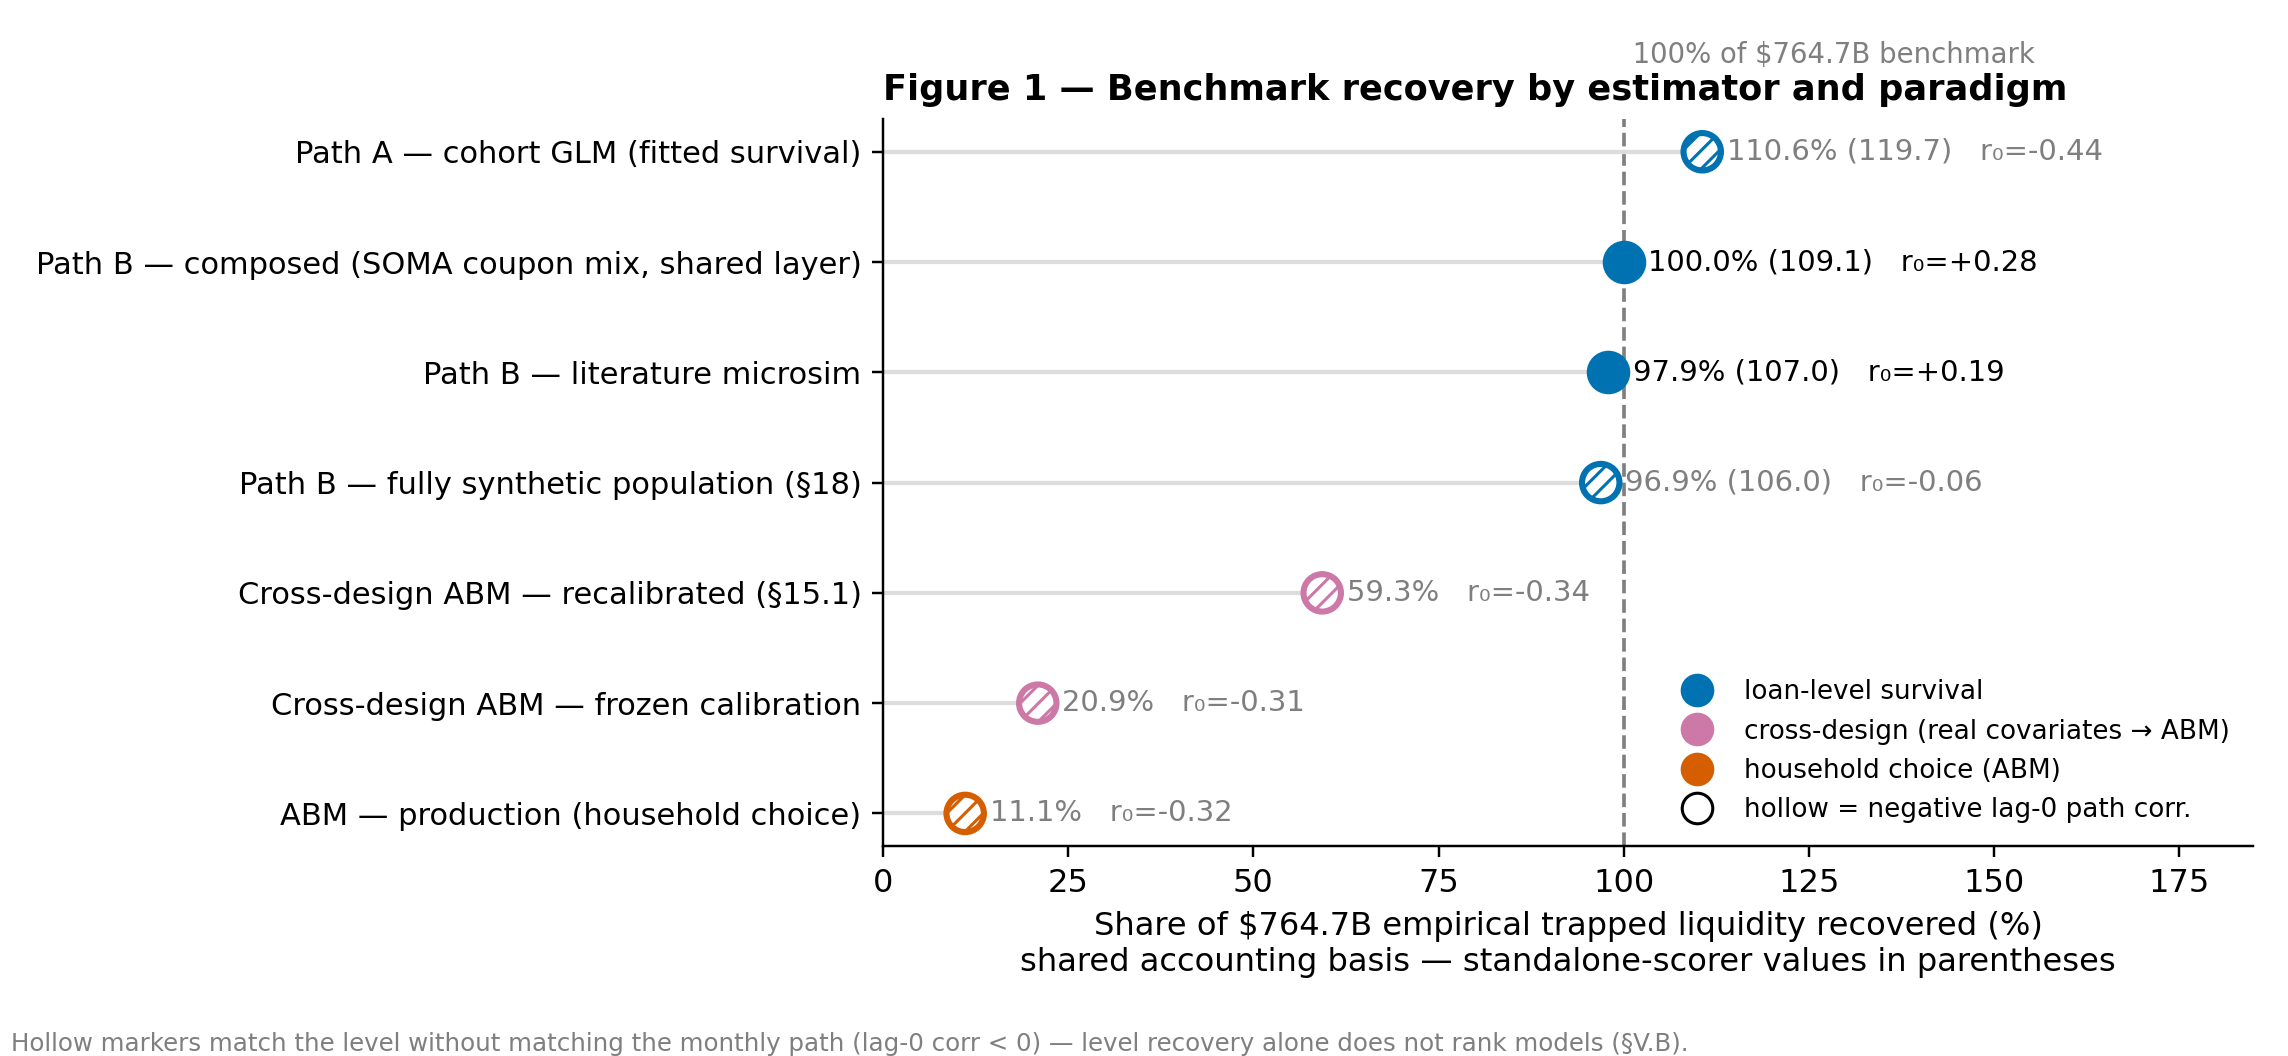
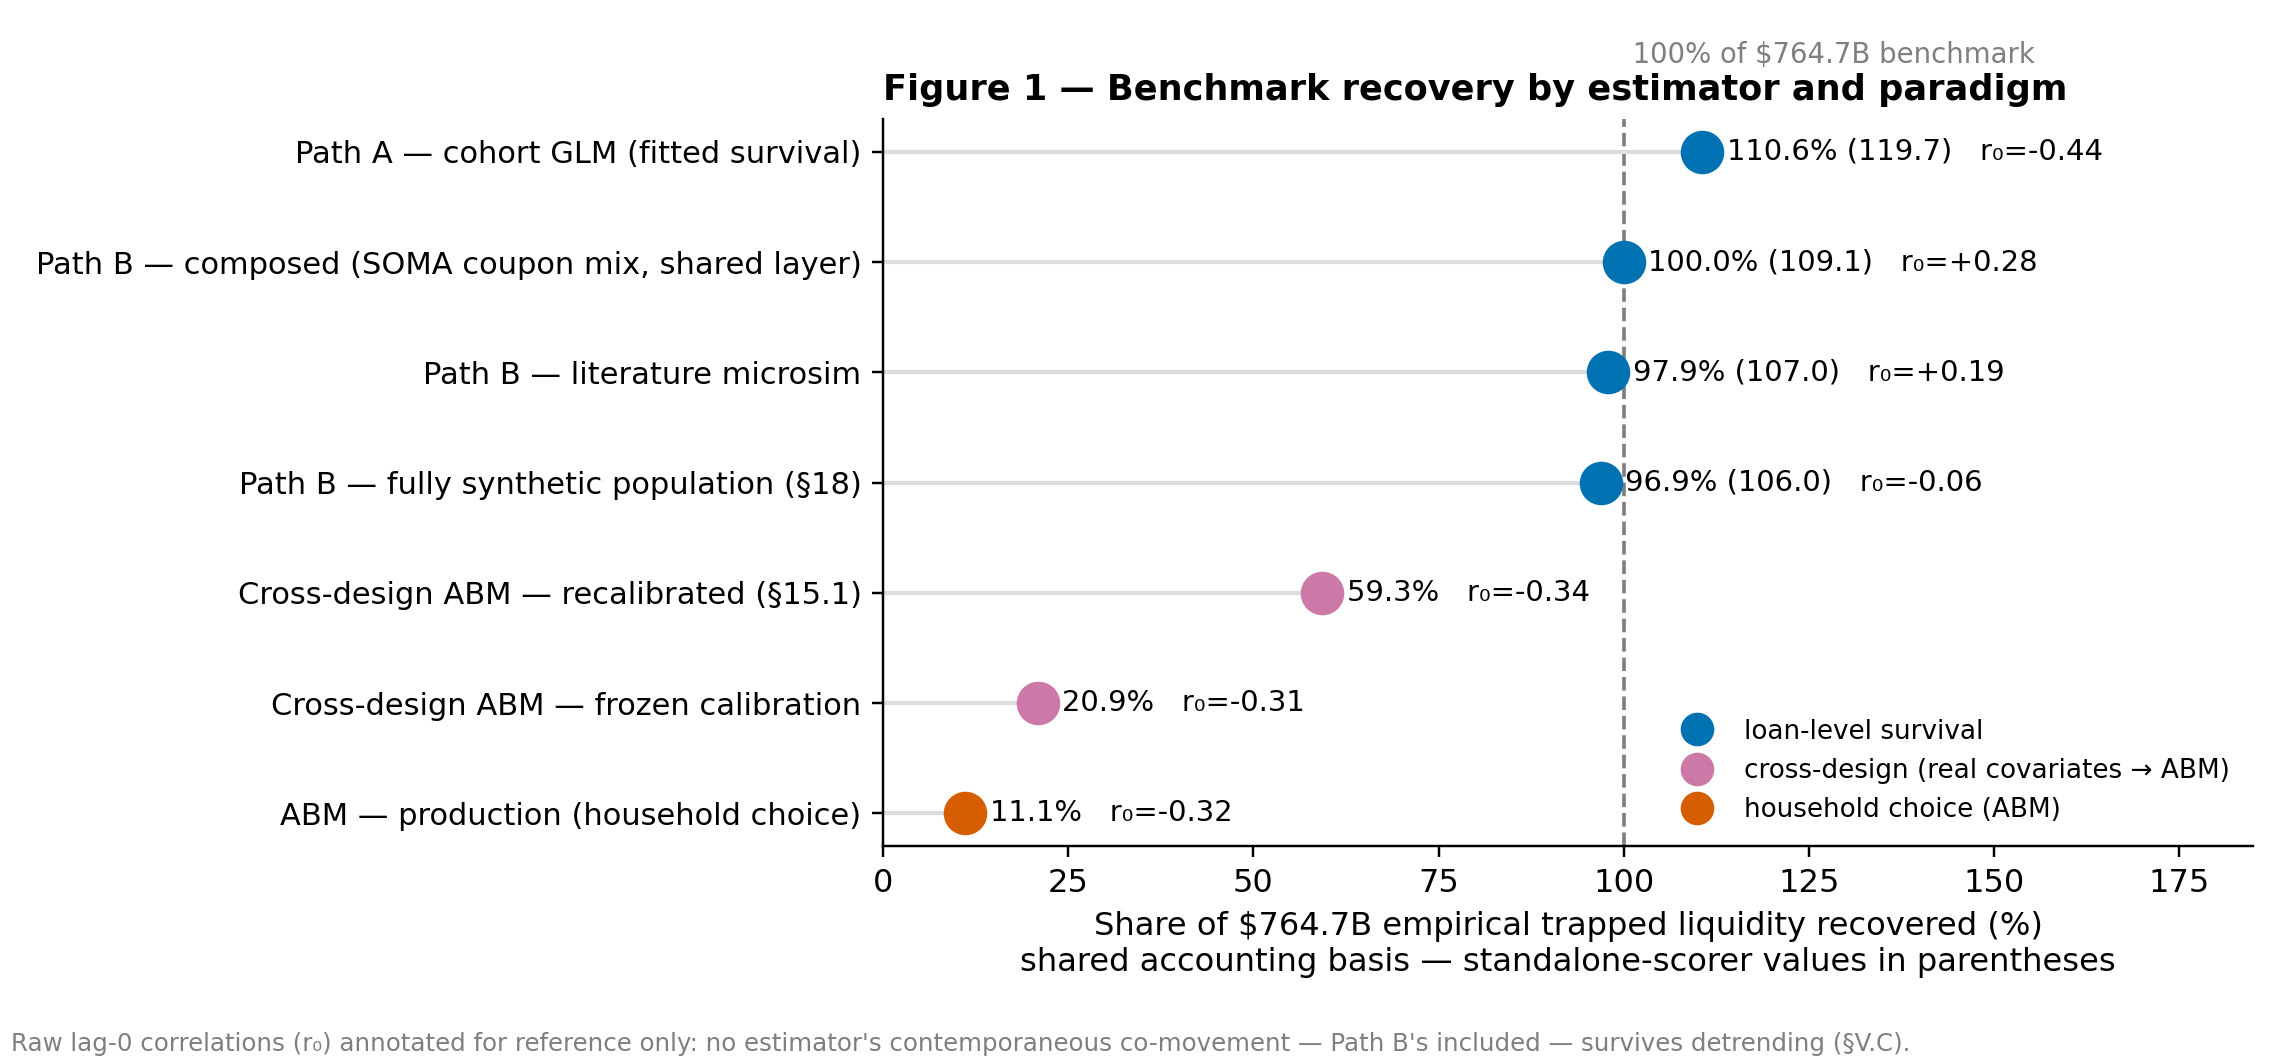
Round 4: output-side timing demotion, netting scope, parity v2 hand-clearing
- rate_timing_scan_results.json: output_side block — corr(Δsim,Δemp) −0.23,
  detrended −0.20; Path B's +0.190 levels r is trend-carried; timing
  credential demoted everywhere incl. fig1 (marker-fill semantics removed)
- shared_layer_scoring_results.json: danish_leg_curtailment — $70.33B on
  counterfactual balances vs common $69.56B US-leg netting (+$0.77B);
  invariance argument scoped to US legs in §VII.F
- panel_disclosures.json: monthly delinquency-stock series (max 154 @ m1,
  mean 24) — closes the 482-vs-154 reconciliation numerically

Full trace in REVISION_VERIFICATION.md Round 4 addendum.

diff --git a/figures/make_figures.py b/figures/make_figures.py
@@ -60,16 +60,12 @@ def fig1_recovery_dotplot():
     ys = np.arange(len(rows))[::-1]
     for y, (label, share, r0, color, standalone) in zip(ys, rows):
         ax.plot([0, share], [y, y], color="#dddddd", lw=1.4, zorder=1)
-        filled = r0 > 0
         ax.scatter([share], [y], s=150, zorder=3,
-                   facecolor=color if filled else "white",
-                   edgecolor=color, linewidth=2.0,
-                   hatch=None if filled else "////")
+                   facecolor=color, edgecolor=color, linewidth=2.0)
         note = f"{share:.1f}%" + (f" ({standalone:.1f})" if standalone else "")
         ax.annotate(note + f"   r₀={r0:+.2f}",
                     (share, y), xytext=(8, 0), textcoords="offset points",
-                    va="center", fontsize=9.5,
-                    color="black" if filled else C_GRAY)
+                    va="center", fontsize=9.5, color="black")
     ax.axvline(100, color=C_GRAY, lw=1.2, ls="--", zorder=0)
     ax.text(100, len(rows) - 0.25, " 100% of $764.7B benchmark",
             color=C_GRAY, fontsize=9, va="bottom")
@@ -87,13 +83,11 @@ def fig1_recovery_dotplot():
                    label="cross-design (real covariates → ABM)"),
         plt.Line2D([], [], marker="o", ls="", mfc=C_CHOICE, mec=C_CHOICE, ms=10,
                    label="household choice (ABM)"),
-        plt.Line2D([], [], marker="o", ls="", mfc="white", mec="black", ms=10,
-                   label="hollow = negative lag-0 path corr."),
     ]
     ax.legend(handles=handles, loc="lower right", fontsize=8.6, frameon=False)
     fig.text(0.005, 0.005,
-             "Hollow markers match the level without matching the monthly path "
-             "(lag-0 corr < 0) — level recovery alone does not rank models (§V.B).",
+             "Raw lag-0 correlations (r₀) annotated for reference only: no estimator's "
+             "contemporaneous co-movement — Path B's included — survives detrending (§V.C).",
              fontsize=8, color=C_GRAY)
     fig.tight_layout(rect=(0, 0.035, 1, 1))
     fig.savefig(OUT / "fig1_recovery_by_estimator.png", dpi=DPI)

diff --git a/REVISION_VERIFICATION.md b/REVISION_VERIFICATION.md
@@ -317,3 +317,14 @@ The panel's adjudication of round 2 surfaced five substantive corrections, all a
 5. **Basis propagated everywhere:** Table 4 note (all rows' shared equivalents + Path A interval as lower bound), band 96.8–99.1% shared, §VII.E companion 96.9% shared, §V.D "lands within" scoped to Path B only, Fig 1 regenerated on shared basis (composed row at 100.0%), covariate endpoints 99.2/92.2% shared with production vector declared (priors retained).
 
 New artifacts: `~/Downloads/v15r2_bundle/` (tex+docx+pdf, both redlines vs pristine v15, `v15_parity_report.json` — 94.8% sentence containment docx↔PDF, all sampled misses triaged to extraction noise), regenerated `figures/fig1_recovery_by_estimator.png` (+ `make_figures.py` updated). The parity check caught two round-2 edits present in tex but missing from docx (seasonality passage; β_b/FICO-LTV sentence) — repaired before the bundle was cut. LibreOffice render CLOSED same evening: user authorized the install (LibreOffice 26.2.4, official DMG, user-space ~/Applications); headless writer_pdf_Export conversion of the revised docx renders all five equations as display math with numbers (pages 6/15/18/19 rasterized and bundled as lo_render_eqpage_*.png in ~/Downloads/v15r2_bundle/). The check surfaced one glyph nit — LibreOffice maps U+2223 to a slash — fixed by switching the Eq. (2) conditional bar to U+007C and re-rendering. Still open: Word REF-field conversion.
+
+## Round 4 addendum (2026-07-10, second adjudication)
+
+Two instruments drew blood this round; both results are in the paper:
+
+1. **Output-side timing demotion.** corr(Δsim, Δemp) = −0.23; detrended levels = −0.20 (both inside the ±0.31 zero band at n=41). Path B's +0.190 lag-0 levels correlation is trend-carried; the "nonnegative contemporaneous correlation" credential (installed round 2) is demoted in §V intro, Table 4/5 notes, §VII.D, §V.D, §V.C, and Figure 1 (marker-fill semantics removed). Path B's distinction is now stated as level accuracy only. Artifact: `rate_timing_scan_results.json → output_side`.
+2. **Netting scope corrected in print.** §VII.F now states the per-leg conversion architecture (hazard dynamics on own balances; U.S.-leg dollar conversion = monthly rescale to WSHOMCB; invariance scoped to U.S. legs) and quantifies the Danish-leg curtailment on counterfactual balances: $70.33B vs the common $69.56B (+$0.77B, immaterial). Artifact: `shared_layer_scoring_results.json → danish_leg_curtailment`.
+
+Also: covariate band attached to every headline instance (abstract "97.9% (92.2–99.2% across covariate calibrations), 100.0% under the ex-ante priors"); §VIII hard gate binds seasonal-Path-A production adoption AND REF-field conversion to the pre-submission freeze with Table 4/WAL/interval restatement; +0.25 softened to "no detectable rate response"; resim interval labeled standalone-basis; unrounded benchmark ($764.748B) printed in §III.D; Appendix B "transparency, not precision" sentence; §VII.F erratum added to the Appendix A ledger; monthly delinquency-stock series added to `panel_disclosures.json` (max 154 at month 1, mean 24, end 14 — confirms the 482→154 routing arithmetic).
+
+**Bidirectional parity v2 with full hand-clearing** (`v15_parity_report.json`): 95.6% forward / 93.6% reverse sentence containment; every unmatched item carries a three-way tex/docx/PDF verdict; ambiguous items resolved by direct grep. The reverse pass found two REAL tex→docx drift items (Table 7 "panel estimate" provenance cells; Appendix A erratum wording) — fixed before the bundle was cut; the checker's own XML-entity bug was found and fixed the same way. Real drift remaining: 0. Delivery: `~/Downloads/v15r2_bundle.zip` (24 files + SHA256SUMS), LO equation renders regenerated against the final docx.
